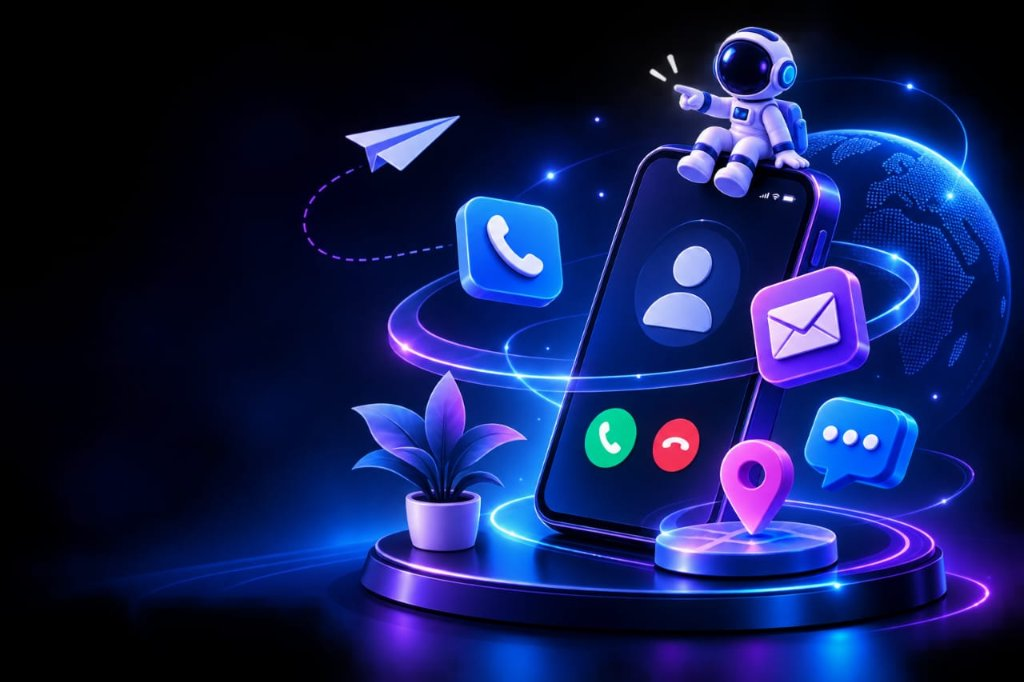
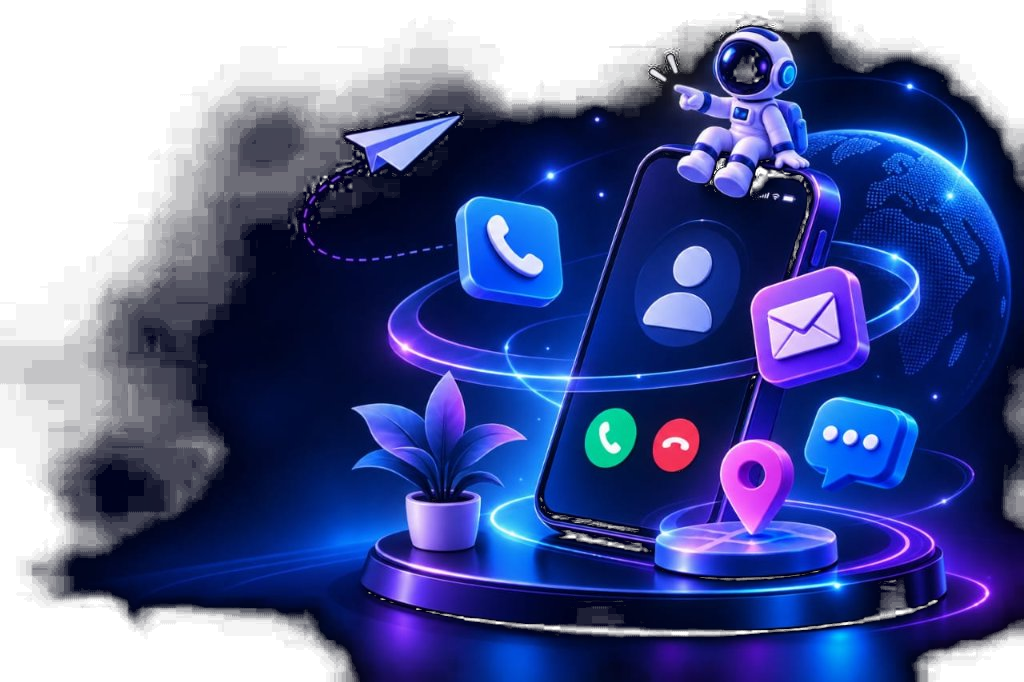
feat: convert Contact hero image to transparent background PNG matching Process page style

diff --git a/src/pages/ContactPage.tsx b/src/pages/ContactPage.tsx
@@ -99,15 +99,15 @@ export const ContactPage: React.FC = () => {
               aria-hidden="true"
             />
             <img
-              src="/assets/heroes/contact-hero.jpg?v=8"
+              src="/assets/heroes/contact-hero.png?v=10"
               onError={(e) => {
                 const target = e.currentTarget;
-                if (!target.src.includes('/contact-hero.jpg?v=8')) {
-                  target.src = '/contact-hero.jpg?v=8';
+                if (!target.src.includes('/contact-hero.png?v=10')) {
+                  target.src = '/contact-hero.png?v=10';
                 }
               }}
               alt="Direct Digital Communication and Technical Consultation - Brahmani Information"
-              className="w-full h-auto rounded-2xl object-contain drop-shadow-[0_20px_40px_rgba(0,0,0,0.6)] transition-transform duration-500 hover:scale-[1.02]"
+              className="w-full h-auto object-contain drop-shadow-[0_20px_40px_rgba(0,94,218,0.35)] transition-transform duration-500 hover:scale-[1.02]"
               loading="eager"
             />
           </div>
